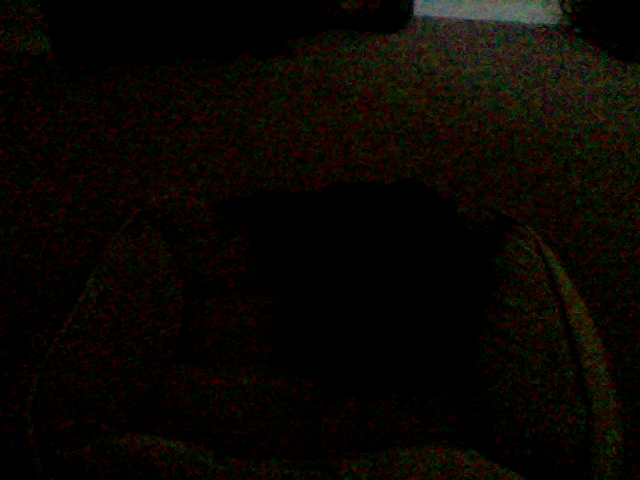
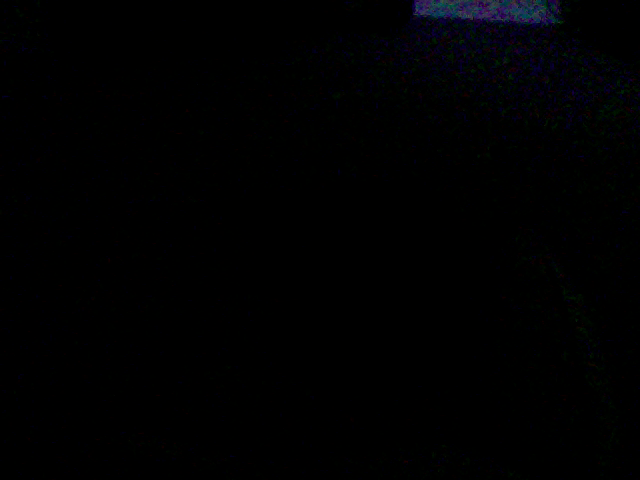
update at Month05Day08Time19:43

diff --git a/index.html b/index.html
@@ -40,7 +40,7 @@
       <div class="row">
         <div class="col-md-4">
 	<p>This picture was updated at Month05Day08Time19:43</p>
-		<img src="10_pic.png" />
+		<img src="2_pic.png" />
         </div>
       </div>
 
